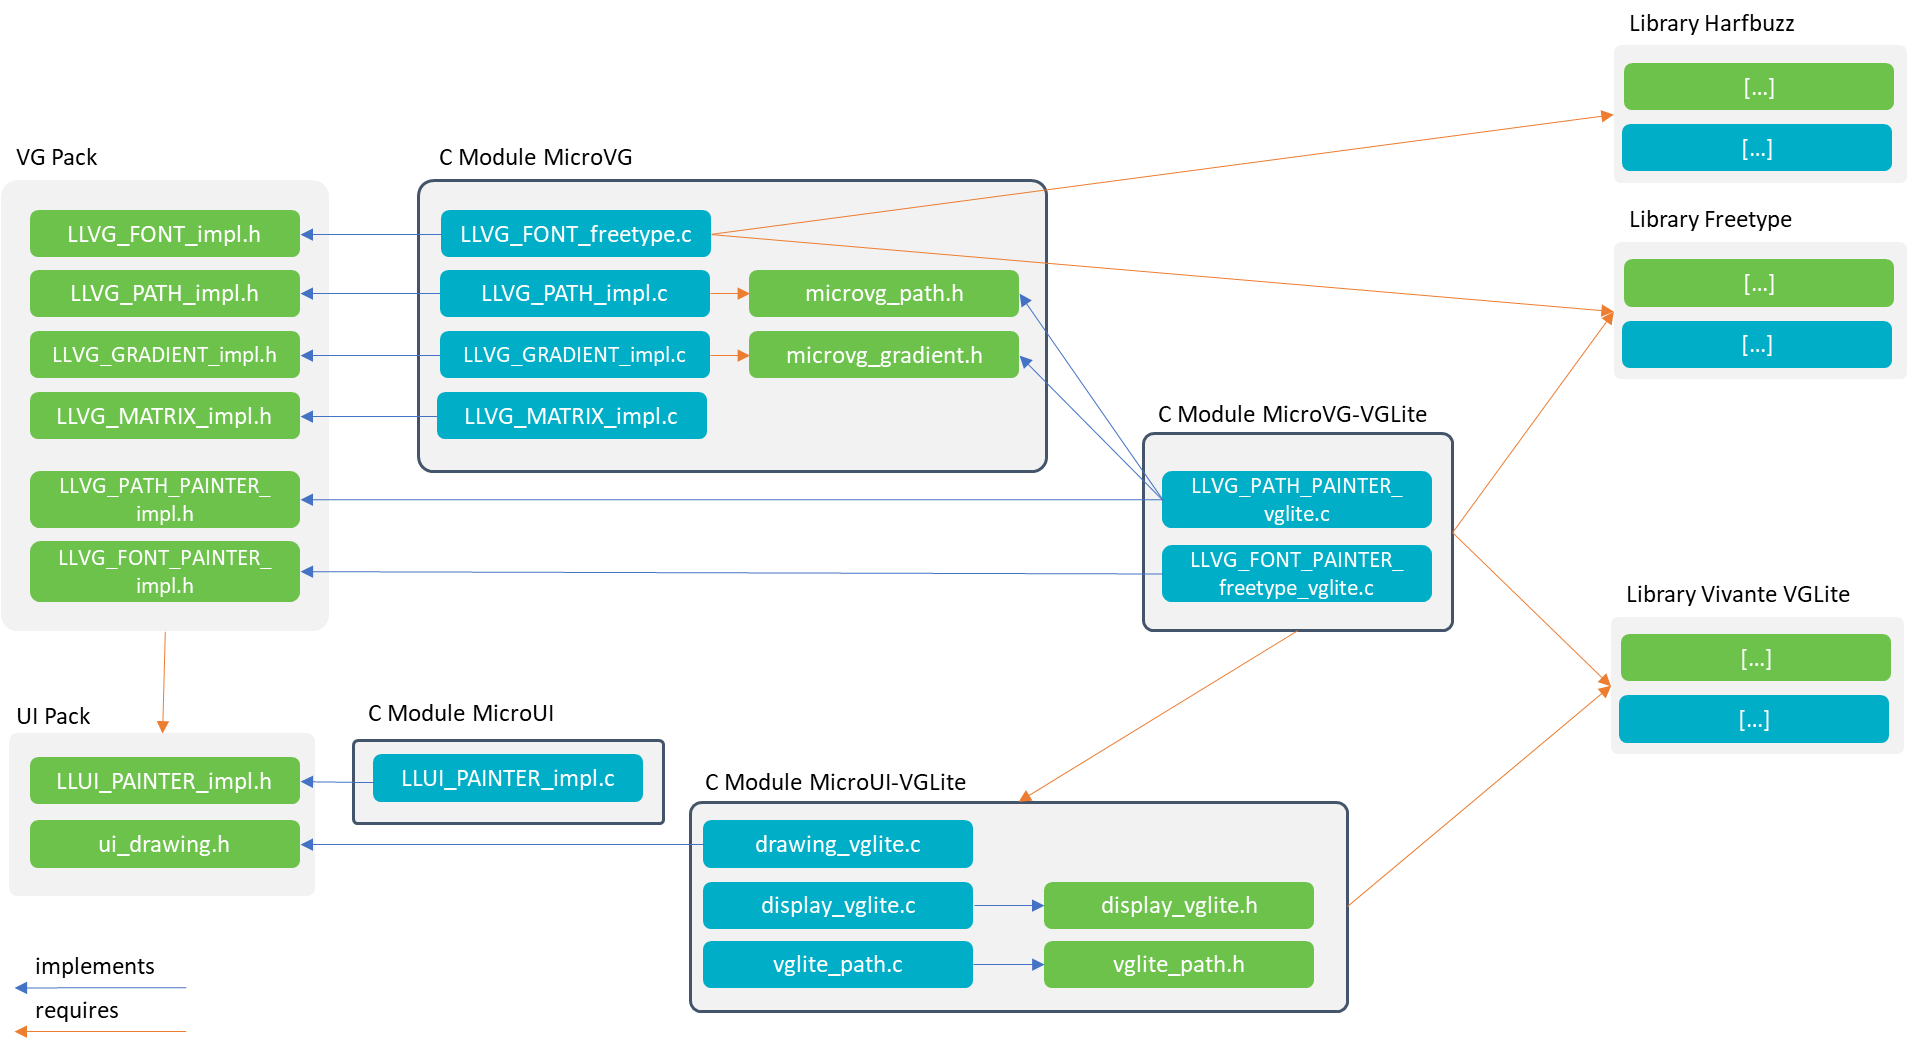
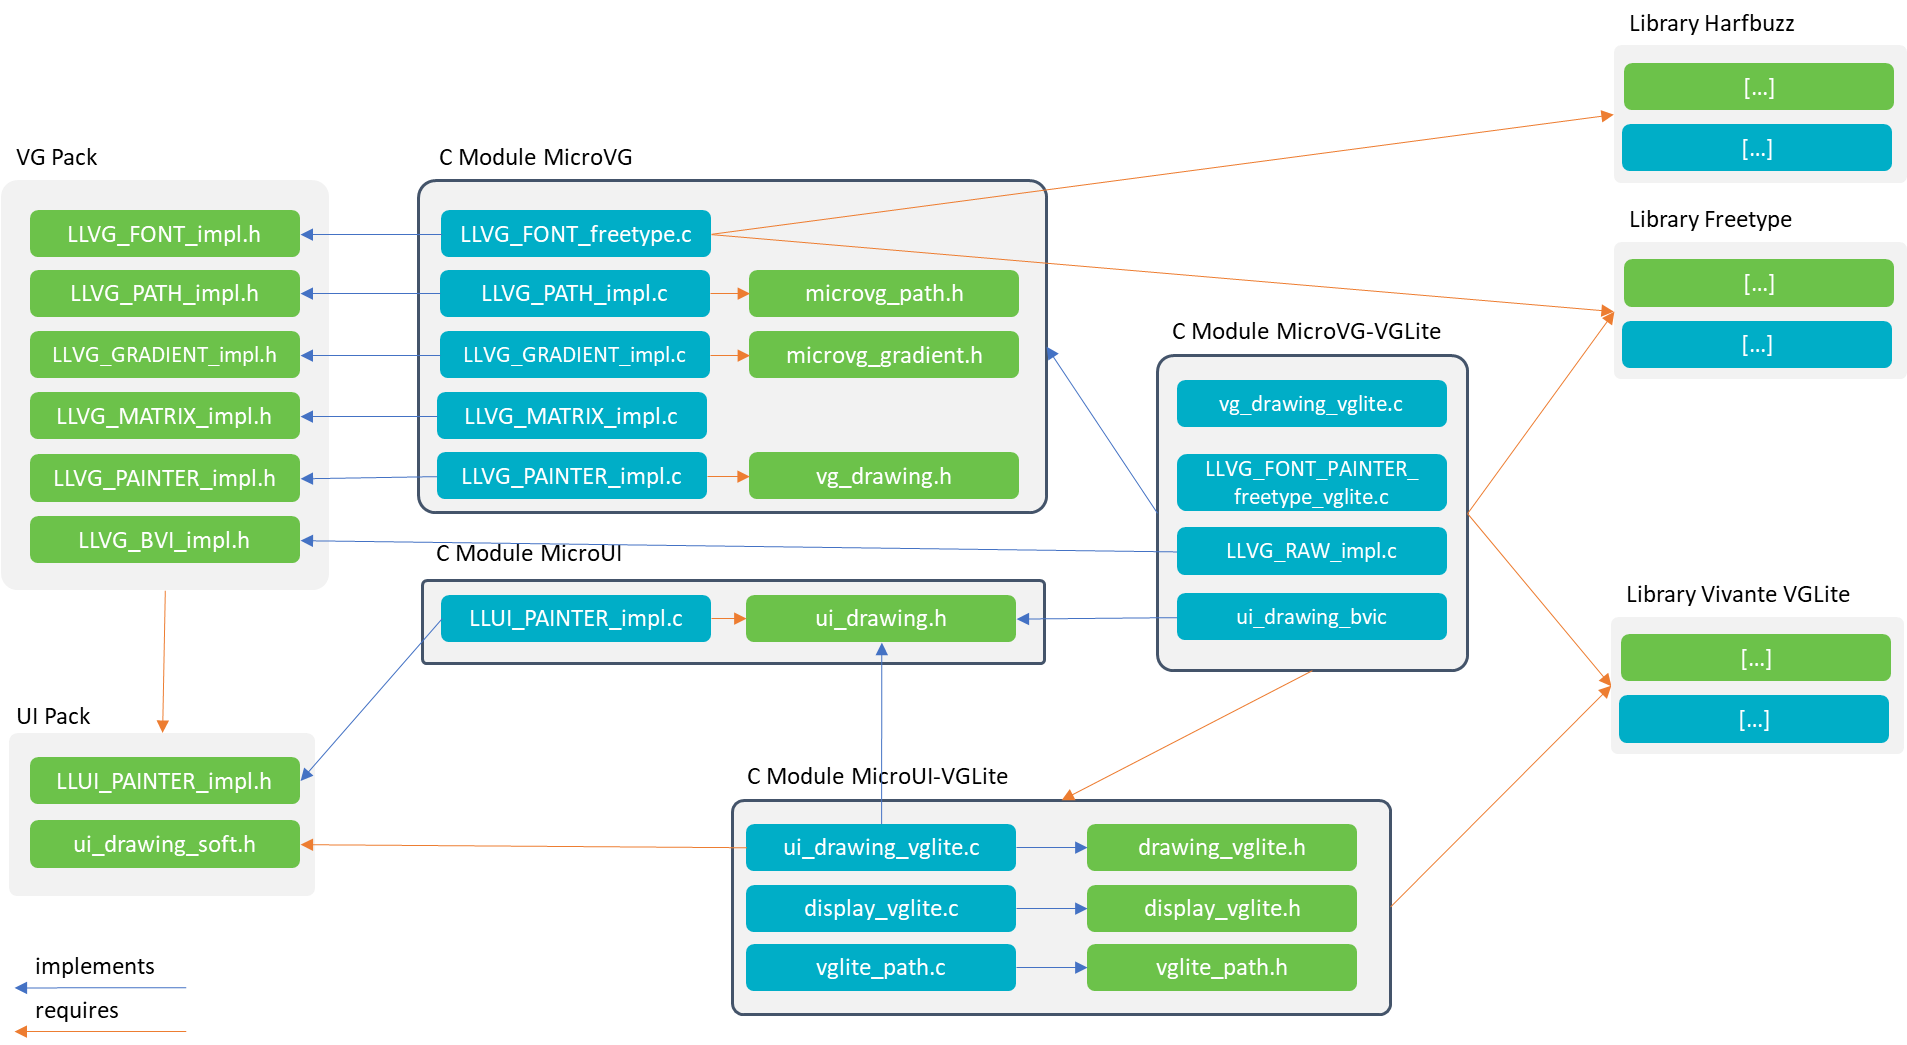
fix latest chapters of microvg

diff --git a/VEEPortingGuide/vgCco.rst b/VEEPortingGuide/vgCco.rst
@@ -47,7 +47,7 @@ VG Pack
 =======
 
 The VG Pack provides a set of header files to implement the MicroVG concepts.
-The header files are described in the dedicated chapters: :ref:`Matrix module <section_vg_matrix>`, :ref:`Path module <section_vg_path>`, :ref:`Gradient module <section_vg_gradient>` and :ref:`Font module <section_vg_font>`.
+The header files are described in the dedicated chapters: :ref:`Matrix module <section_vg_matrix>`, :ref:`Path module <section_vg_path>`, :ref:`Gradient module <section_vg_gradient>`, :ref:`Image module <section_vg_image>` and :ref:`Font module <section_vg_font>`.
 
 The VG Pack is an extension of the UI Pack.
 The VG Pack's header files require the UI Pack's header files to manipulate the MicroUI concepts.
@@ -71,6 +71,8 @@ This generic C module provides an implementation of MicroVG concepts: matrix, pa
 * Path (see Path module's :ref:`section_vg_path_llapi`): a generic implementation that manages the command buffer's life cycle and dispatches the command encoding to a 3rd-party header file ``microvg_path.h``.
 * Gradient (see Gradient module's :ref:`section_vg_gradient_llapi`): a generic implementation that manages the gradient buffer's life cycle and dispatches the gradient encoding to a 3rd-party header file ``microvg_gradient.h``.
 * Font (see Font module's :ref:`section_vg_font_llapi`): an implementation of vector font over Freetype: open font file and retrieve font's characteristics.
+* The MicroVG painter native functions are implemented in ``LLVG_PAINTER_impl.c`` and the drawings are redirected to ``vg_drawing.h``.
+* The image management is too specific to the GPU and it is not implemented in this C module.
 
 This C module is available on the :ref:`central_repository`: `com.microej.clibrary.llimpl#microvg`_.
 
@@ -140,8 +142,12 @@ Freetype and Harfbuzz libraries are not sharing the same heap, but this could ea
 C Module: MicroVG Over VGLite
 =============================
 
-This C module is a specific implementation of the VG Pack drawing LLAPIs: ``LLVG_PAINTER_PATH_impl.h`` and ``LLVG_PAINTER_FONT_impl.h``.
-It implements a set of drawings over the official Vivante VGLite library (that targets some GPU with vector graphics acceleration): ``LLVG_PAINTER_PATH_vglite.c`` and ``LLVG_PAINTER_FONT_freetype_vglite.c``.
+This C module is a specific implementation of the VG Pack drawings over the official Vivante VGLite library (that targets some GPU with vector graphics acceleration):
+
+* It implements the MicroVG API ``vg_drawing.h`` in ``vg_drawing_vglite.c`` and ``LLVG_PAINTER_FONT_freetype_vglite.c``.
+* It implements the MicroVG Image management (draw a compile-time image, create a BufferedVectorImage, etc.): ``LLVG_RAW_impl.c``. 
+* It provides an implementation of MicroVG drawings to the MicroVG BufferedVectorImage: ``vg_drawing_bvi.c``.
+* It also provides an implementation of MicroUI drawings to the MicroVG BufferedVectorImage: ``ui_drawing_bvi.c``.
 
 The implementation requires:
 

diff --git a/VEEPortingGuide/vgSimulation.rst b/VEEPortingGuide/vgSimulation.rst
@@ -7,7 +7,7 @@ Simulation
 Principle
 =========
 
-The VG Pack embeds an extension of :ref:`UI Pack's Front Panel mock <section_ui_simulation>` to implement the equivalent of the four embedded modules (Matrix, Path, Gradient, and Font).
+The VG Pack embeds an extension of :ref:`UI Pack's Front Panel mock <section_ui_simulation>` to implement the equivalent of the five embedded modules (Matrix, Path, Gradient, Image and Font).
 
 The implementation simulates the same characteristics and limitations as the embedded modules. 
 
